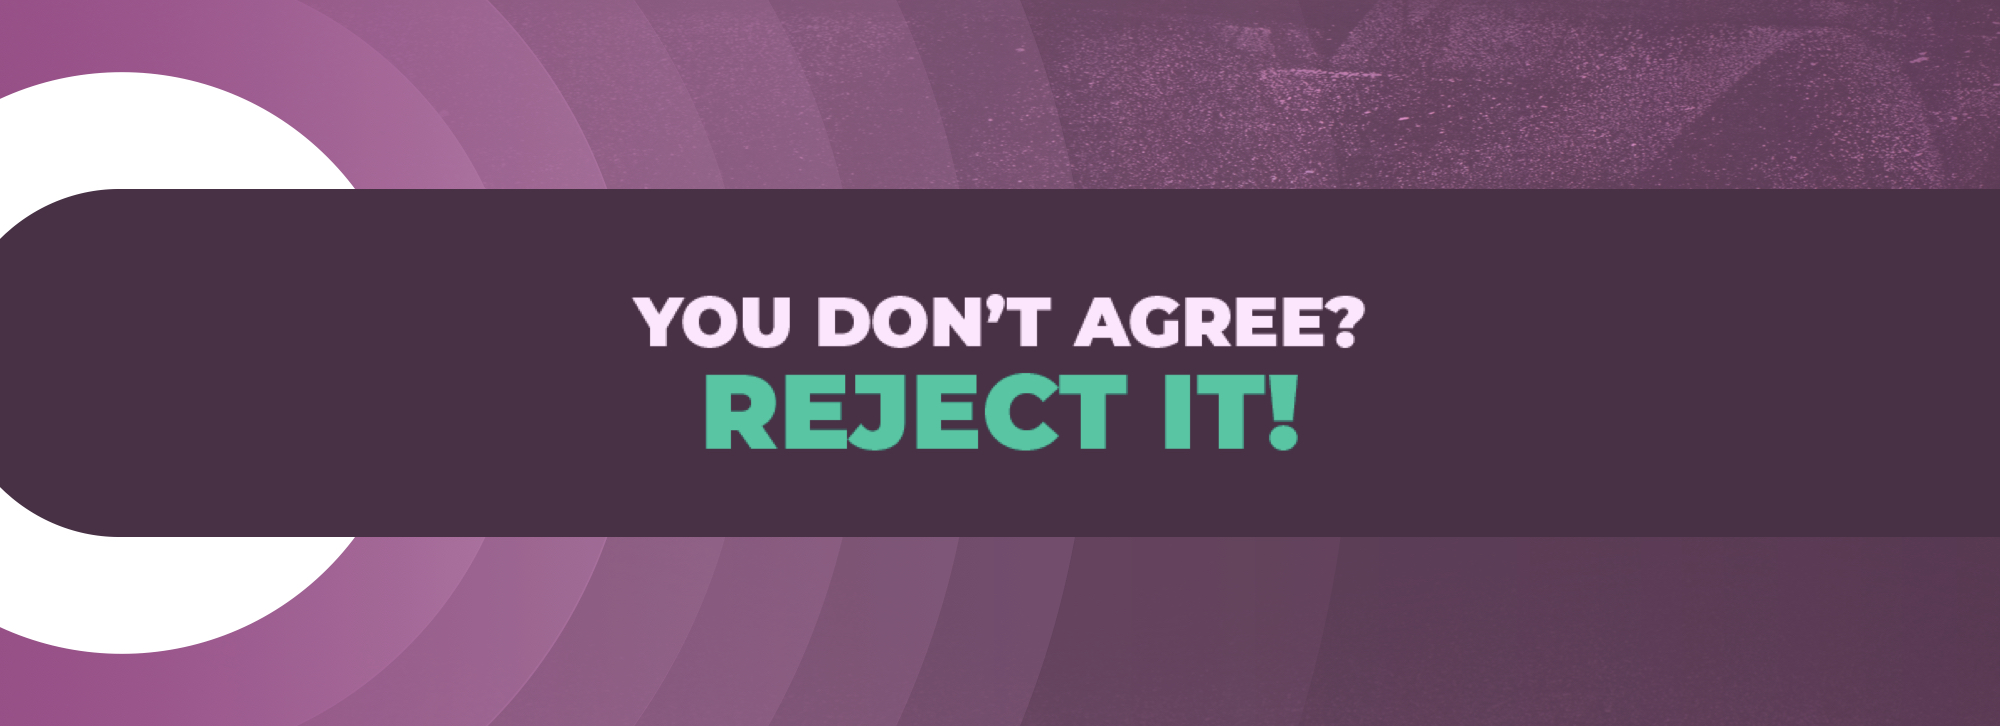
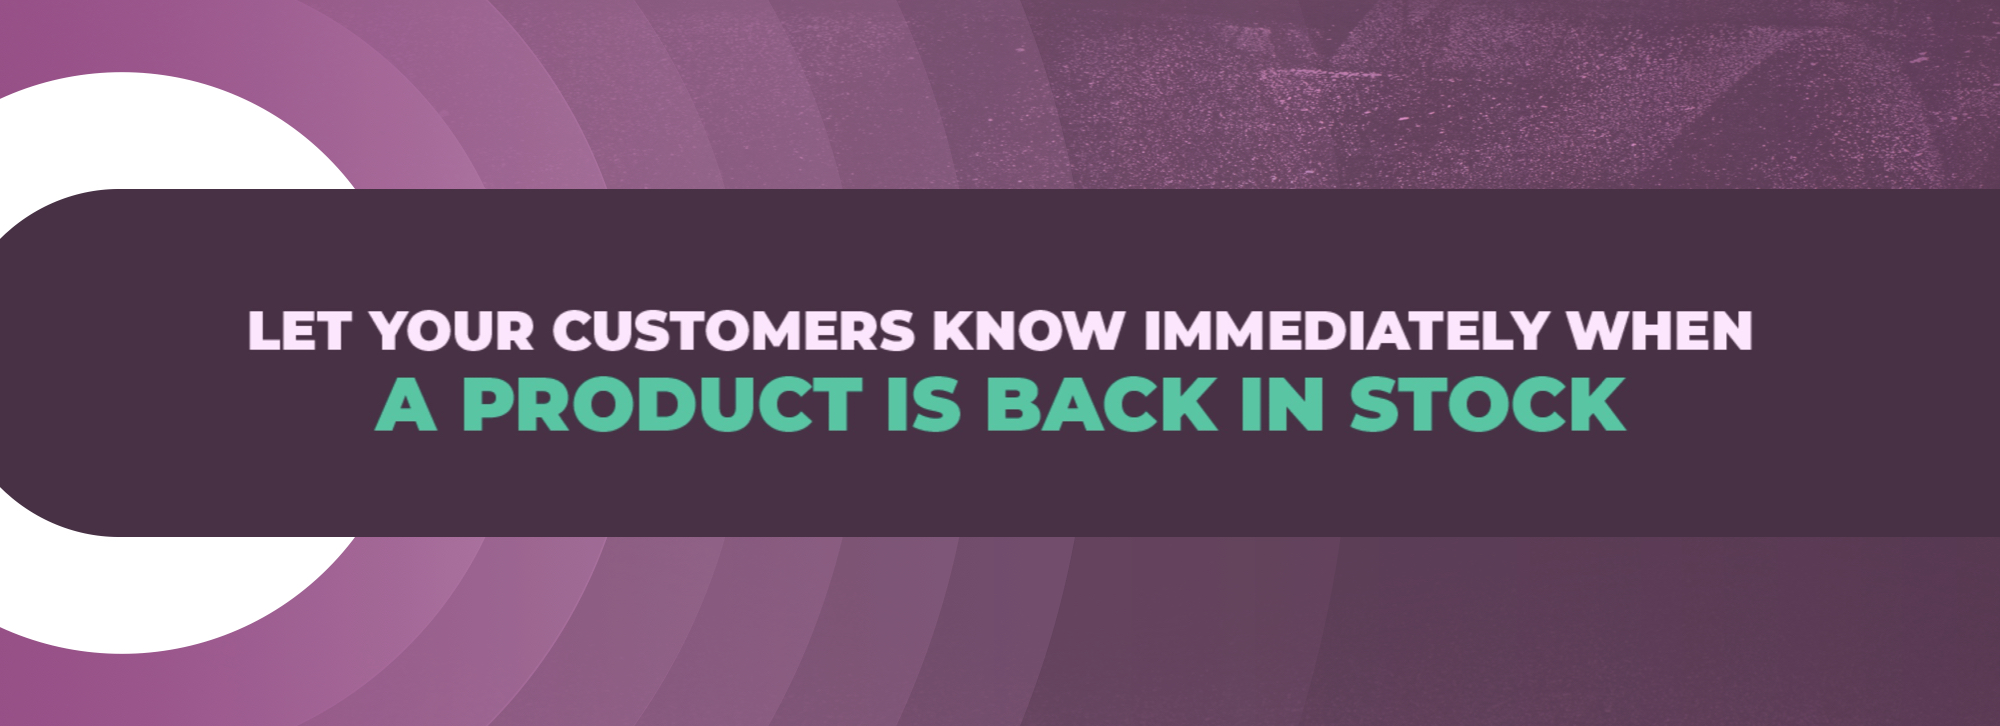
asdfsdfsdf

Changed region(s): [[0.186, 0.5152, 0.837, 0.6364], [0.124, 0.3939, 0.899, 0.4848]]

diff --git a/7d_pos_test/static/description/index.html b/7d_pos_test/static/description/index.html
@@ -71,29 +71,36 @@
 
 <!----------------------- Features Section ------------------------------------------------>
 <section style="display: grid;
-     grid-template-columns:1fr 1fr;
+     grid-template-columns:1fr 1fr 1fr;
      grid-template-rows: auto;
      justify-content: center;
      padding-bottom: 50px;
      padding-top: 50px;
      background-color: #ffffff;
      margin-bottom: 50px; font-family:sans-serif;">
-     <h2 style="grid-column: 1/3; text-align: center; color: #676767; font-weight: 700;">
+     <h2 style="grid-column: 1/4; text-align: center; color: #676767; font-weight: 700;">
           FEATURES
      </h2>
      <div
           style="background-color: #f6edf3; border-radius: 8px; padding: 20px; box-shadow: 0px 4px 8px rgba(0, 0, 0, 0.1); margin: 20px;">
           <img src="images/features-1.png" style="width: 90px; padding: 10px 0;" />
-          <h2 style="font-size: 20px; margin-bottom: 10px;">Allows you to reject a sign-request with a reason of
-               rejection</h2>
+          <h2 style="font-size: 20px; margin-bottom: 10px;">Allows your customers to log their interest in buying
+               your product when it`s Out-of-Stock</h2>
           <!-- <p>text1111111.</p> -->
      </div>
      <div
           style="background-color: #f6edf3; border-radius: 8px; padding: 20px; box-shadow: 0px 4px 8px rgba(0, 0, 0, 0.1); margin: 20px;">
           <img src="images/features-2.png" style="width: 90px; padding: 10px 0;" />
-          <h2 style="font-size: 20px; margin-bottom: 10px;">Explains out the reason for rejection to come to a
-               proper agreement of acceptance
+          <h2 style="font-size: 20px; margin-bottom: 10px;">Increases your confidence in procuring the right
+               product
           </h2>
+          <!-- <p>text22222.</p> -->
+     </div>
+     <div
+          style="background-color: #f6edf3; border-radius: 8px; padding: 20px; box-shadow: 0px 4px 8px rgba(0, 0, 0, 0.1); margin: 20px;">
+          <img src="images/features-3.png" style="width: 90px; padding: 10px 0;" />
+          <h2 style="font-size: 20px; margin-bottom: 10px;">Let`s customers know that you are meeting their demand
+               of a product that`s not available</h2>
           <!-- <p>text22222.</p> -->
      </div>
 </section>
@@ -113,7 +120,7 @@
           HOW IT WORKS
      </h2>
      <div
-          style="grid-column: 1/3;background-color: #ffffff; border-radius: 8px; padding: 20px; box-shadow: 0px 4px 8px rgba(0, 0, 0, 0.1); margin: 20px;">
+          style="grid-column: 1/3; background-color: #ffffff; border-radius: 8px; padding: 20px; box-shadow: 0px 4px 8px rgba(0, 0, 0, 0.1); margin: 20px;">
           <!-- <img src="images/HIW-1.png" style="width: 90px; padding: 10px 0;" /> -->
           <h2 style="font-size: 20px; margin-bottom: 10px;">No Configuration Required, just Install and Use
           </h2>
@@ -128,11 +135,19 @@
      padding: 10px;
      font-family:sans-serif;">
      <div style="padding: 5vw 3vw;">
-          <a href="https://www.youtube.com/embed/UL0v-wXEDwY" target="_blank"
+          <a href="https://www.youtube.com/embed/UNY11ohMDNM" target="_blank"
                style="text-decoration: none; display: block; text-align: center;">
 
-               <img src="images/23_video_img_1.jpeg" alt="Image 1"
+               <img src="images/24_video_img_1.jpeg" alt="Image 1"
                     style="width:80%; box-shadow: 0px 4px 8px rgba(0, 0, 0, 1);">
+          </a>
+     </div>
+     <div style="padding:5vw 3vw;">
+          <a href="https://www.youtube.com/embed/lQ9AyYuhUqg" target="_blank"
+               style="text-decoration: none; display: block; text-align: center;">
+
+               <img src="images/24_video_img_2.jpeg" alt="Image 2"
+                    style="width:80%;box-shadow: 0px 4px 8px rgba(0, 0, 0, 1);">
           </a>
      </div>
 </section>
